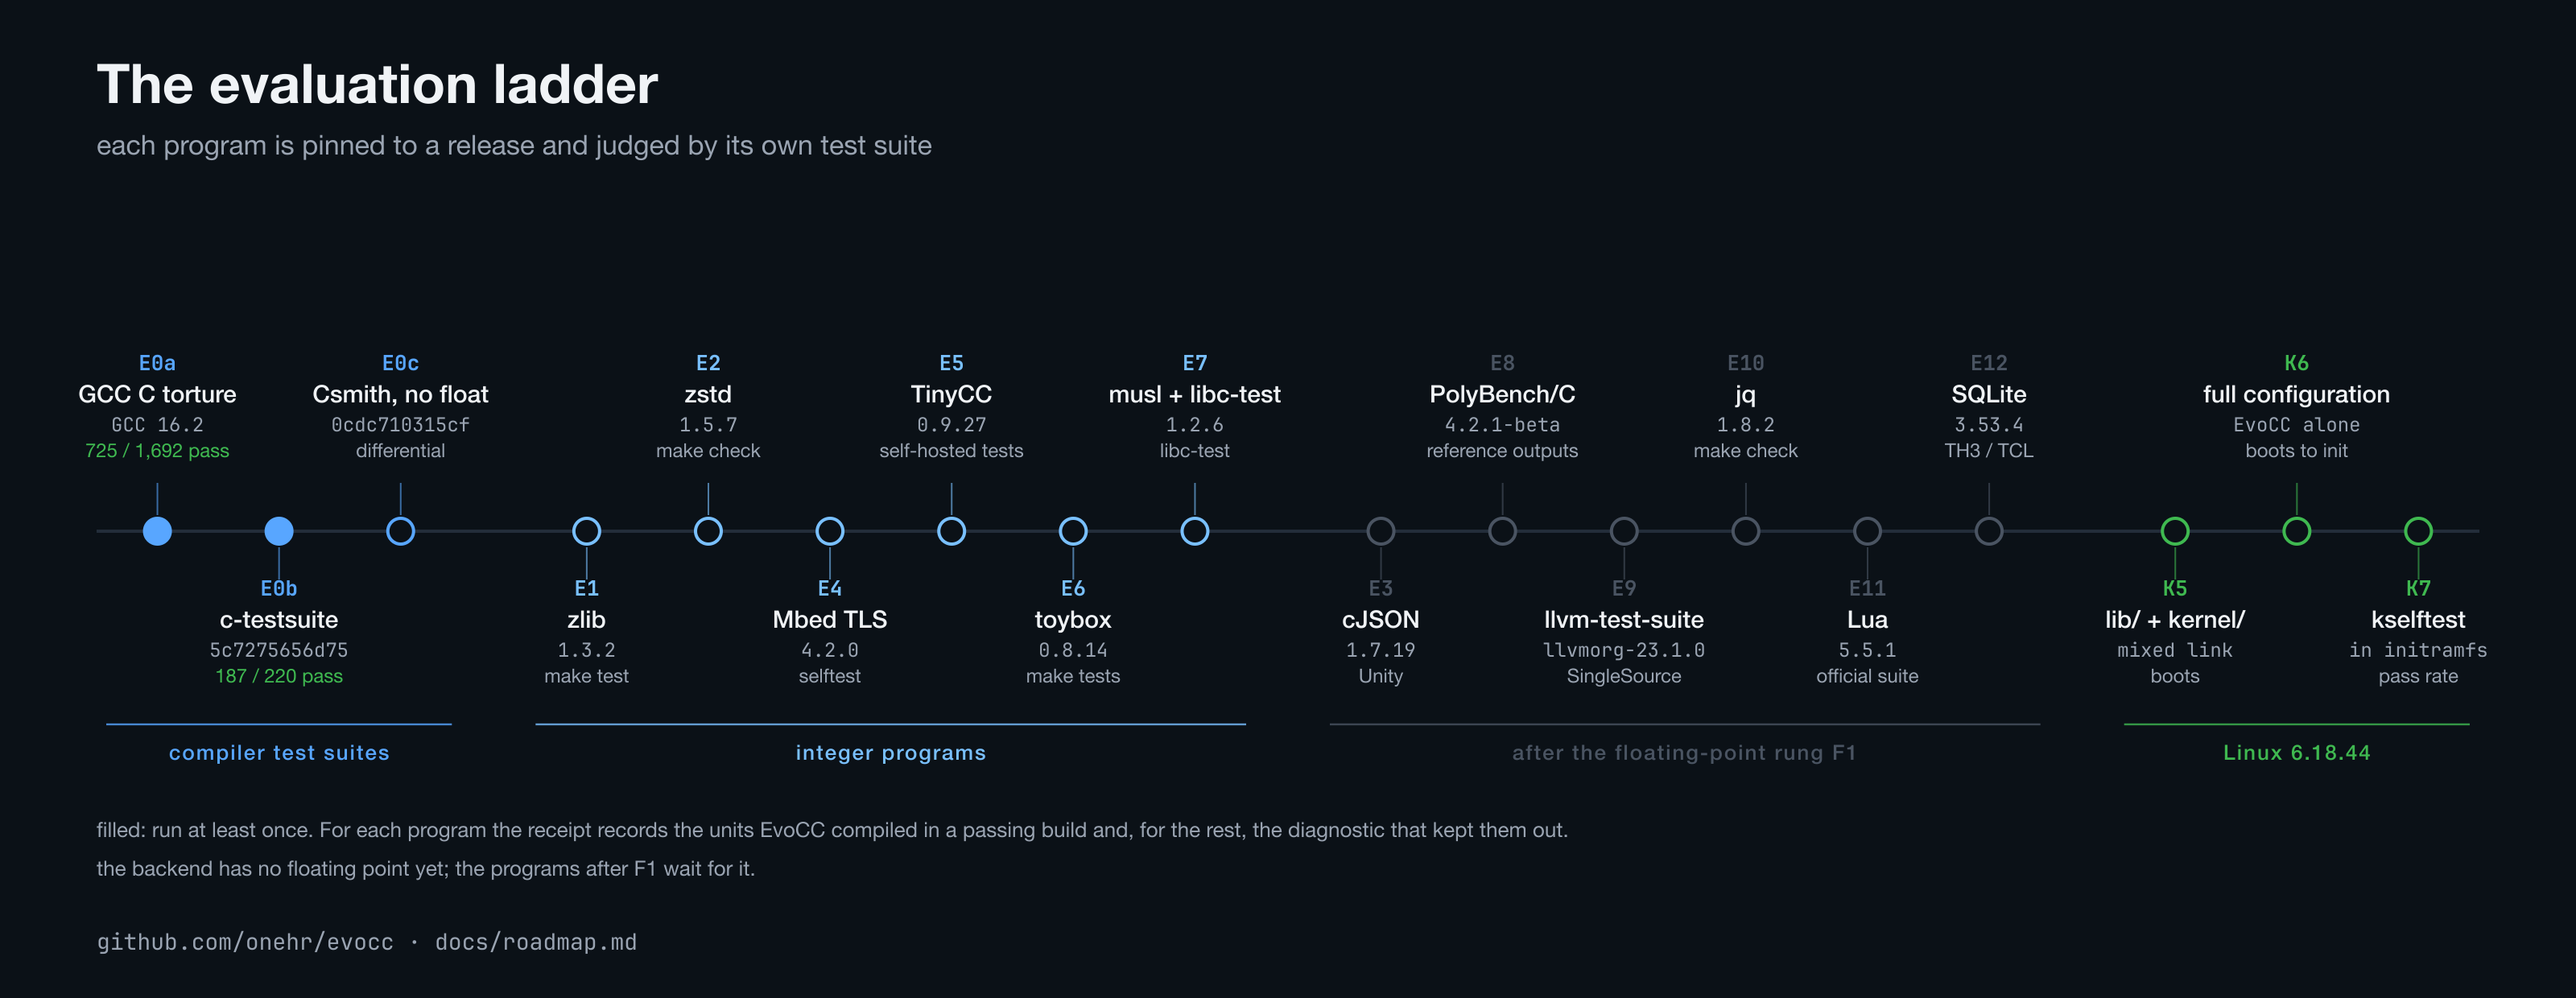
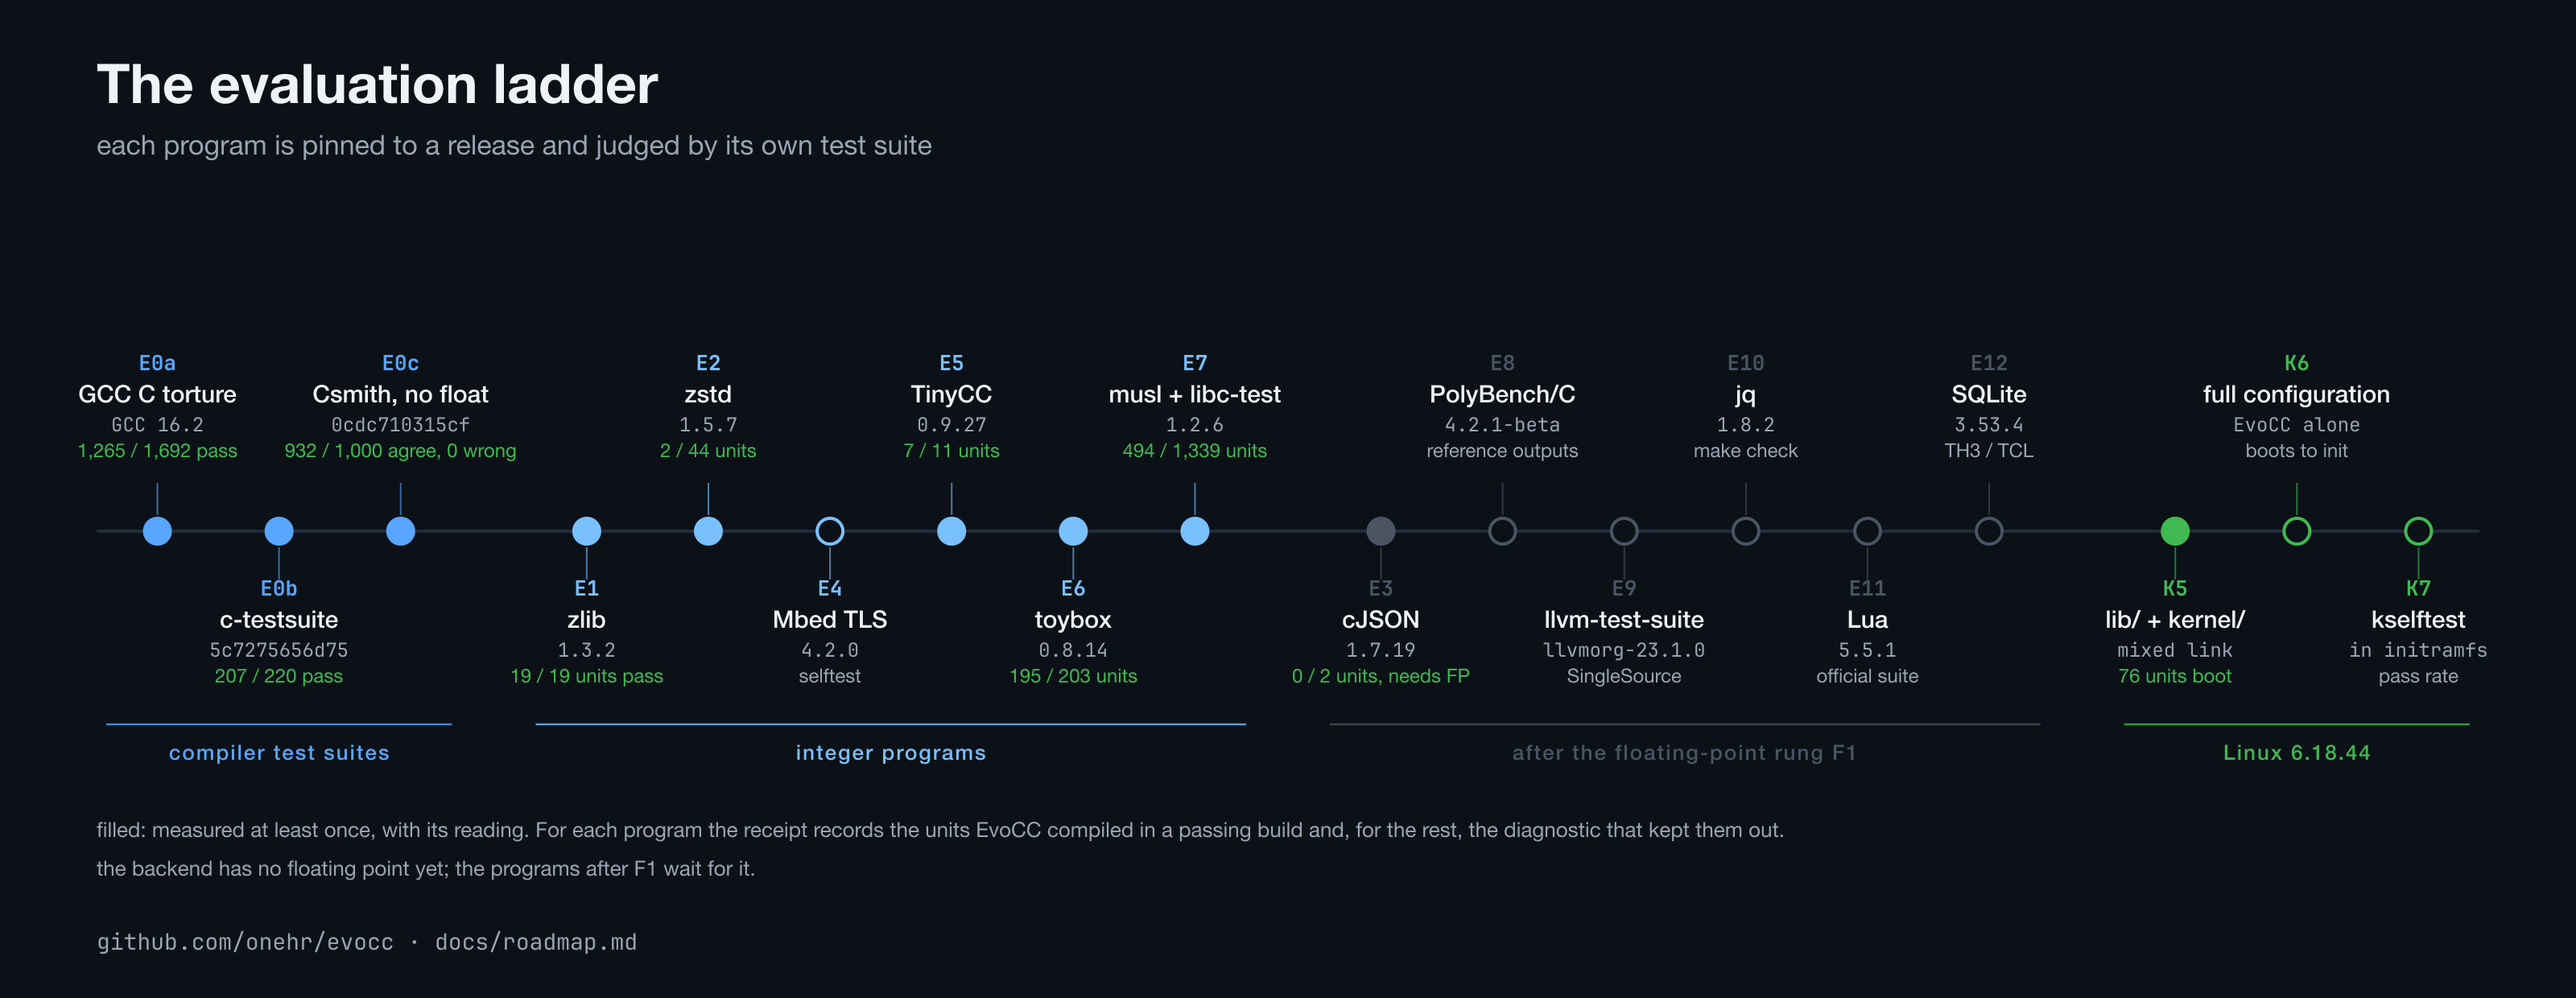
Refresh the roadmap figures with the current readings

diff --git a/tools/render-figures.py b/tools/render-figures.py
@@ -253,10 +253,10 @@ def ladder() -> None:
     c.text(60, 64, "The evaluation ladder", 34, TEXT, "700")
     c.text(60, 96, "each program is pinned to a release and judged by its own test suite", 17, MUTED)
     groups = [
-        ("compiler test suites", BLUE, [("E0a", "GCC C torture", "GCC 16.2", "725 / 1,692 pass"), ("E0b", "c-testsuite", "5c7275656d75", "187 / 220 pass"), ("E0c", "Csmith, no float", "0cdc710315cf", "differential")]),
-        ("integer programs", CYAN, [("E1", "zlib", "1.3.2", "make test"), ("E2", "zstd", "1.5.7", "make check"), ("E4", "Mbed TLS", "4.2.0", "selftest"), ("E5", "TinyCC", "0.9.27", "self-hosted tests"), ("E6", "toybox", "0.8.14", "make tests"), ("E7", "musl + libc-test", "1.2.6", "libc-test")]),
-        ("after the floating-point rung F1", GRAY, [("E3", "cJSON", "1.7.19", "Unity"), ("E8", "PolyBench/C", "4.2.1-beta", "reference outputs"), ("E9", "llvm-test-suite", "llvmorg-23.1.0", "SingleSource"), ("E10", "jq", "1.8.2", "make check"), ("E11", "Lua", "5.5.1", "official suite"), ("E12", "SQLite", "3.53.4", "TH3 / TCL")]),
-        ("Linux 6.18.44", GREEN, [("K5", "lib/ + kernel/", "mixed link", "boots"), ("K6", "full configuration", "EvoCC alone", "boots to init"), ("K7", "kselftest", "in initramfs", "pass rate")]),
+        ("compiler test suites", BLUE, [("E0a", "GCC C torture", "GCC 16.2", "1,265 / 1,692 pass"), ("E0b", "c-testsuite", "5c7275656d75", "207 / 220 pass"), ("E0c", "Csmith, no float", "0cdc710315cf", "932 / 1,000 agree, 0 wrong")]),
+        ("integer programs", CYAN, [("E1", "zlib", "1.3.2", "19 / 19 units pass"), ("E2", "zstd", "1.5.7", "2 / 44 units"), ("E4", "Mbed TLS", "4.2.0", "selftest"), ("E5", "TinyCC", "0.9.27", "7 / 11 units"), ("E6", "toybox", "0.8.14", "195 / 203 units"), ("E7", "musl + libc-test", "1.2.6", "494 / 1,339 units")]),
+        ("after the floating-point rung F1", GRAY, [("E3", "cJSON", "1.7.19", "0 / 2 units, needs FP"), ("E8", "PolyBench/C", "4.2.1-beta", "reference outputs"), ("E9", "llvm-test-suite", "llvmorg-23.1.0", "SingleSource"), ("E10", "jq", "1.8.2", "make check"), ("E11", "Lua", "5.5.1", "official suite"), ("E12", "SQLite", "3.53.4", "TH3 / TCL")]),
+        ("Linux 6.18.44", GREEN, [("K5", "lib/ + kernel/", "mixed link", "76 units boot"), ("K6", "full configuration", "EvoCC alone", "boots to init"), ("K7", "kselftest", "in initramfs", "pass rate")]),
     ]
     x0, y_track = 60, 330
     total = sum(len(g[2]) for g in groups)
@@ -269,7 +269,7 @@ def ladder() -> None:
         for code, subject, pin, oracle in rungs:
             cx = x + step / 2
             above = k % 2 == 0
-            done = code in ("E0a", "E0b")
+            done = code in ("E0a", "E0b", "E0c", "E1", "E2", "E3", "E5", "E6", "E7", "K5")
             c.raw(f'<circle cx="{cx}" cy="{y_track}" r="8" fill="{col if done else BG}" stroke="{col}" stroke-width="2"/>')
             ty = y_track - 100 if above else y_track + 40
             c.line(cx, y_track - 10 if above else y_track + 10, cx, y_track - 30 if above else y_track + 30, col, 1, 0.6)
@@ -282,7 +282,7 @@ def ladder() -> None:
         c.line(gx0 + 6, y_track + 120, x - 6, y_track + 120, col, 1.2, 0.8)
         c.text((gx0 + x) / 2, y_track + 142, name, 13, col, "600", SANS, "middle", 1, 1)
         x += 40
-    c.text(60, 520, "filled: run at least once. For each program the receipt records the units EvoCC compiled in a passing build and, for the rest, the diagnostic that kept them out.", 13, MUTED)
+    c.text(60, 520, "filled: measured at least once, with its reading. For each program the receipt records the units EvoCC compiled in a passing build and, for the rest, the diagnostic that kept them out.", 13, MUTED)
     c.text(60, 544, "the backend has no floating point yet; the programs after F1 wait for it.", 13, MUTED)
     c.text(60, 590, "github.com/onehr/evocc  ·  docs/roadmap.md", 14, MUTED, "normal", MONO)
     c.write("evocc-ladder")
@@ -295,10 +295,11 @@ def milestones() -> None:
     items = [
         ("parse the kernel", "2,798 / 2,798", "done"),
         ("backend", "AArch64, two targets", "done"),
-        ("kernel objects boot", "12 units by EvoCC", "done"),
-        ("lower every unit", "30 / 2,798 so far", "now"),
-        ("machine forms", "varargs, asm, relocs", "now"),
-        ("outside programs", "c-testsuite, torture, zlib", "now"),
+        ("kernel objects boot", "76 units by EvoCC", "done"),
+        ("rules proved", "55 rules, Lean 4", "done"),
+        ("lower every unit", "90 / 2,798 so far", "now"),
+        ("machine forms", "asm, alignment, 128-bit", "now"),
+        ("outside programs", "torture 1,265 / 1,692", "now"),
         ("most kernel units", "by EvoCC, boots", "next"),
         ("whole kernel", "EvoCC alone, boots", "later"),
         ("floating point", "then SQLite, Lua", "later"),
